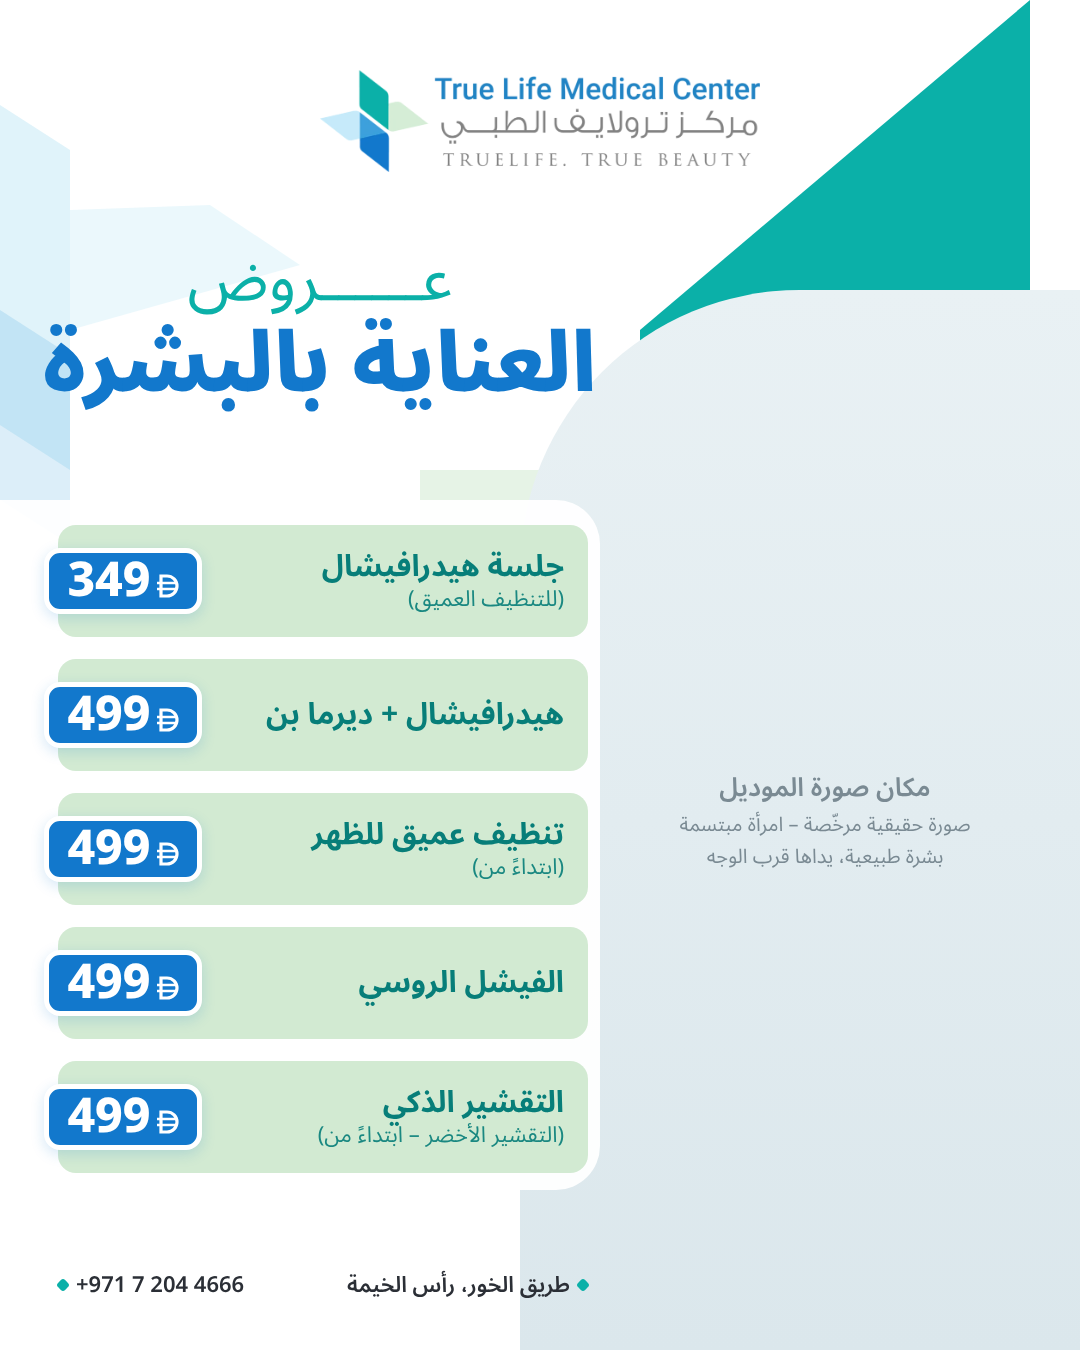
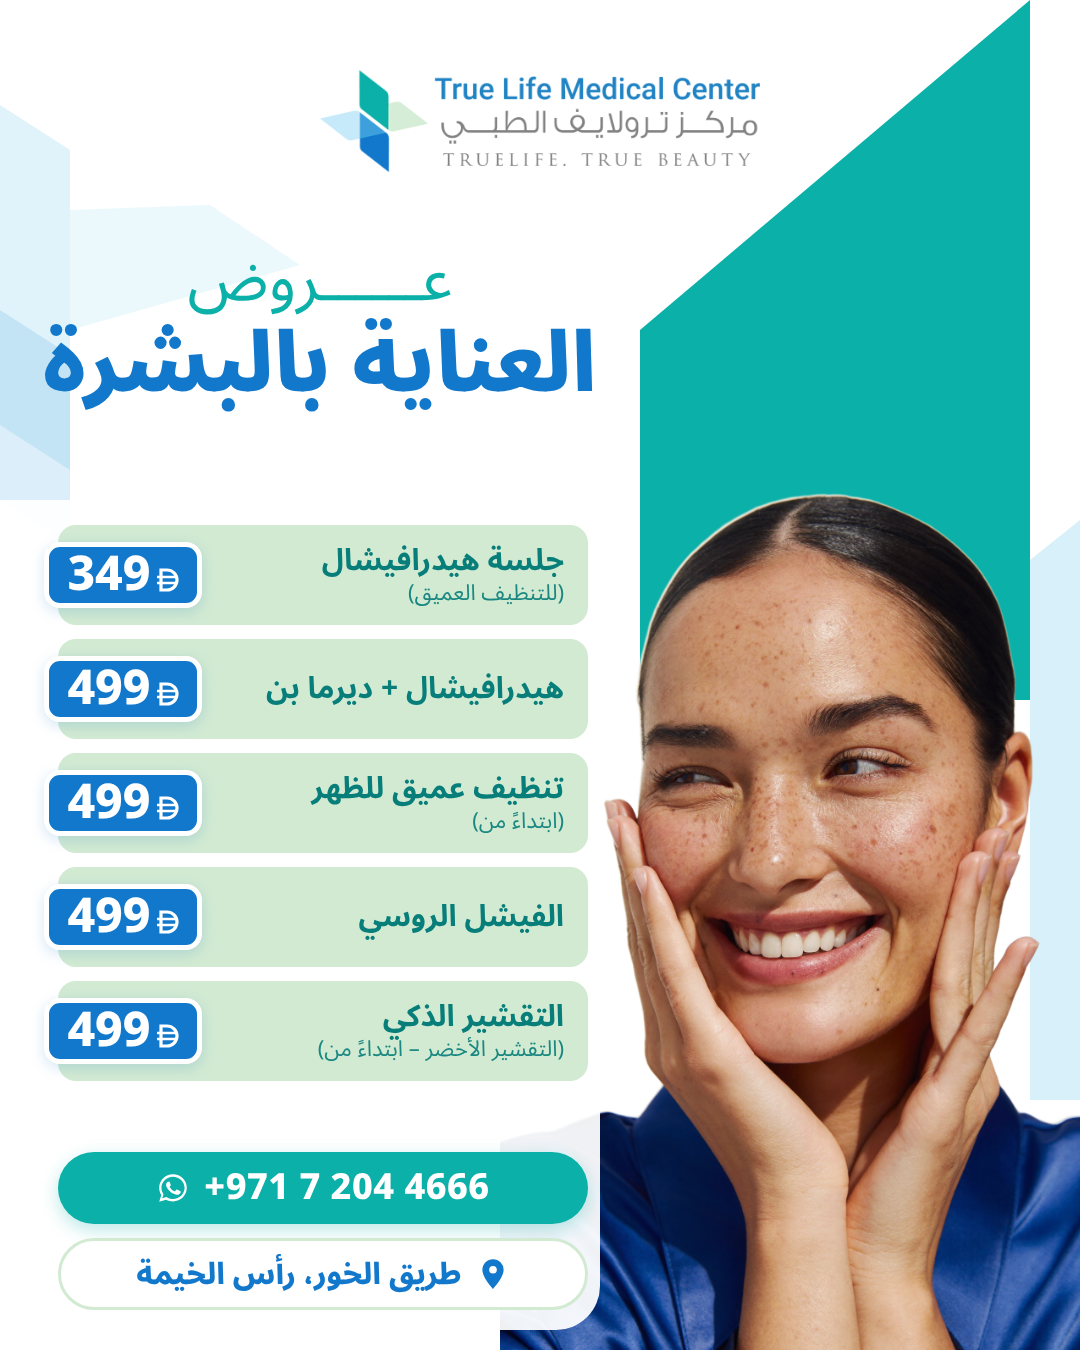
Facial cover v1: generated model and stronger contact footer
Claude-Session: https://claude.ai/code/session_01EZd6nkjhojbY1JhgPgko2h

diff --git a/designs/facial/TL_post_facial_cover_1080x1350_ar_v1.html b/designs/facial/TL_post_facial_cover_1080x1350_ar_v1.html
@@ -13,18 +13,14 @@
   body{font-family:'Noto Sans Arabic',sans-serif;position:relative;direction:rtl}
   .bg{position:absolute;inset:0;width:1080px;height:1350px}
   .logo{position:absolute;top:70px;left:50%;transform:translateX(-50%);width:440px}
-  .model{position:absolute;right:0;bottom:0;width:560px;height:1060px;
-    background:linear-gradient(180deg,#e9f1f4 0%,#dbe7ec 100%);
-    border-top-left-radius:280px;display:flex;flex-direction:column;align-items:center;justify-content:center;padding:0 40px 0 90px;
-    color:#7a8a93;font-size:26px;font-weight:600;text-align:center;line-height:1.6}
-  .model small{display:block;font-size:20px;font-weight:400}
+  .model{position:absolute;right:-70px;bottom:0;width:650px;height:auto}
   .title{position:absolute;top:250px;left:40px;width:560px;text-align:center}
   .title .pre{font-size:62px;font-weight:400;color:var(--teal);line-height:1;letter-spacing:0}
   .title .main{font-size:82px;font-weight:900;color:var(--blue);line-height:1.15;margin-top:6px;white-space:nowrap}
-  .panel{position:absolute;top:500px;left:0;width:600px;height:690px;background:rgba(255,255,255,.94);
+  .panel{position:absolute;top:500px;left:0;width:600px;height:830px;background:rgba(255,255,255,.94);
     border-top-right-radius:44px;border-bottom-right-radius:44px}
-  .rows{position:absolute;top:525px;left:58px;width:530px;display:flex;flex-direction:column;gap:22px}
-  .row{position:relative;min-height:112px;background:var(--mint);border-radius:18px;
+  .rows{position:absolute;top:525px;left:58px;width:530px;display:flex;flex-direction:column;gap:14px}
+  .row{position:relative;min-height:100px;background:var(--mint);border-radius:18px;
     display:flex;flex-direction:column;justify-content:center;padding:12px 24px 12px 168px;text-align:right}
   .row .name{font-size:30px;white-space:nowrap;font-weight:700;color:var(--deepteal);line-height:1.25}
   .row .sub{font-size:22px;font-weight:400;color:var(--deepteal);line-height:1.3;opacity:.9}
@@ -33,10 +29,12 @@
     display:flex;align-items:center;justify-content:center;gap:6px;direction:ltr;color:#fff;padding:0 14px}
   .pill b{font-family:'Noto Sans Arabic',sans-serif;font-size:48px;font-weight:800;line-height:1}
   .pill svg{width:22px;height:24px;margin-top:10px}
-  .footer{position:absolute;bottom:42px;left:58px;width:530px;display:flex;justify-content:space-between;
-    font-size:22px;font-weight:600;color:var(--charcoal)}
-  .footer span{display:flex;align-items:center;gap:8px}
-  .footer .dot{width:10px;height:10px;border-radius:3px;background:var(--teal);transform:rotate(45deg)}
+  .footer{position:absolute;bottom:40px;left:58px;width:530px;display:flex;flex-direction:column;gap:14px}
+  .chip{display:flex;align-items:center;gap:14px;height:72px;border-radius:36px;padding:0 26px;font-weight:800}
+  .chip svg{width:34px;height:34px;flex:none}
+  .chip.wa{background:var(--teal);color:#fff;font-size:36px;justify-content:center;direction:ltr;letter-spacing:.5px;
+    box-shadow:0 6px 18px rgba(11,176,168,.28)}
+  .chip.loc{background:#fff;border:3px solid var(--mint);color:var(--blue);font-size:30px;justify-content:center}
   .ltr{direction:ltr;unicode-bidi:isolate}
 </style>
 </head>
@@ -47,11 +45,10 @@
   <polygon points="0,310 70,355 70,545 0,500" fill="#3DA0DC" opacity=".18"/>
   <polygon points="70,210 210,205 300,265 70,330" fill="#C6EAF6" opacity=".35"/>
   <polygon points="640,330 1030,0 1030,700 640,700" fill="#0BB0A8"/>
-  <polygon points="420,470 560,470 560,640 420,640" fill="#D2EAD2" opacity=".55"/>
   <polygon points="1030,560 1080,520 1080,1100 1030,1100" fill="#C6EAF6" opacity=".7"/>
 </svg>
 
-<div class="model">مكان صورة الموديل<small>صورة حقيقية مرخّصة – امرأة مبتسمة<br>بشرة طبيعية، يداها قرب الوجه</small></div>
+<img class="model" src="model_facial_cover.png" alt="">
 
 <img class="logo" src="../brand/TL_logo_primary_1024x237.png" alt="True Life Medical Center">
 
@@ -75,8 +72,8 @@
 </div>
 
 <div class="footer">
-  <span><i class="dot"></i>طريق الخور، رأس الخيمة</span>
-  <span class="ltr"><i class="dot"></i>+971 7 204 4666</span>
+  <div class="chip wa"><svg viewBox="0 0 32 32"><path fill="#fff" d="M16 3C8.8 3 3 8.7 3 15.8c0 2.5.7 4.9 2 6.9L3 29l6.5-2c1.9 1 4.1 1.6 6.5 1.6 7.2 0 13-5.7 13-12.8S23.2 3 16 3zm0 23.3c-2.1 0-4.1-.6-5.8-1.7l-.4-.2-3.9 1.2 1.2-3.7-.3-.4a10.4 10.4 0 0 1-1.7-5.7C5.1 10 10 5.3 16 5.3S26.9 10 26.9 15.8 22 26.3 16 26.3zm6-7.8c-.3-.2-1.9-.9-2.2-1-.3-.1-.5-.2-.7.2l-1 1.2c-.2.2-.4.2-.7.1a8.8 8.8 0 0 1-4.4-3.8c-.3-.6.3-.5.9-1.7.1-.2 0-.4 0-.6l-1-2.4c-.3-.6-.5-.5-.7-.5h-.6c-.2 0-.6.1-.9.4-.3.3-1.2 1.1-1.2 2.7s1.2 3.2 1.4 3.4c.2.2 2.4 3.6 5.8 5 2.2.9 3 1 4.1.8.7-.1 1.9-.8 2.2-1.5.3-.7.3-1.4.2-1.5-.1-.2-.3-.3-.6-.4z"/></svg>+971 7 204 4666</div>
+  <div class="chip loc"><svg viewBox="0 0 32 32"><path fill="#1278CC" d="M16 2a10 10 0 0 0-10 10c0 7.5 10 18 10 18s10-10.5 10-18A10 10 0 0 0 16 2zm0 13.6A3.6 3.6 0 1 1 16 8.4a3.6 3.6 0 0 1 0 7.2z"/></svg>طريق الخور، رأس الخيمة</div>
 </div>
 </body>
 </html>
